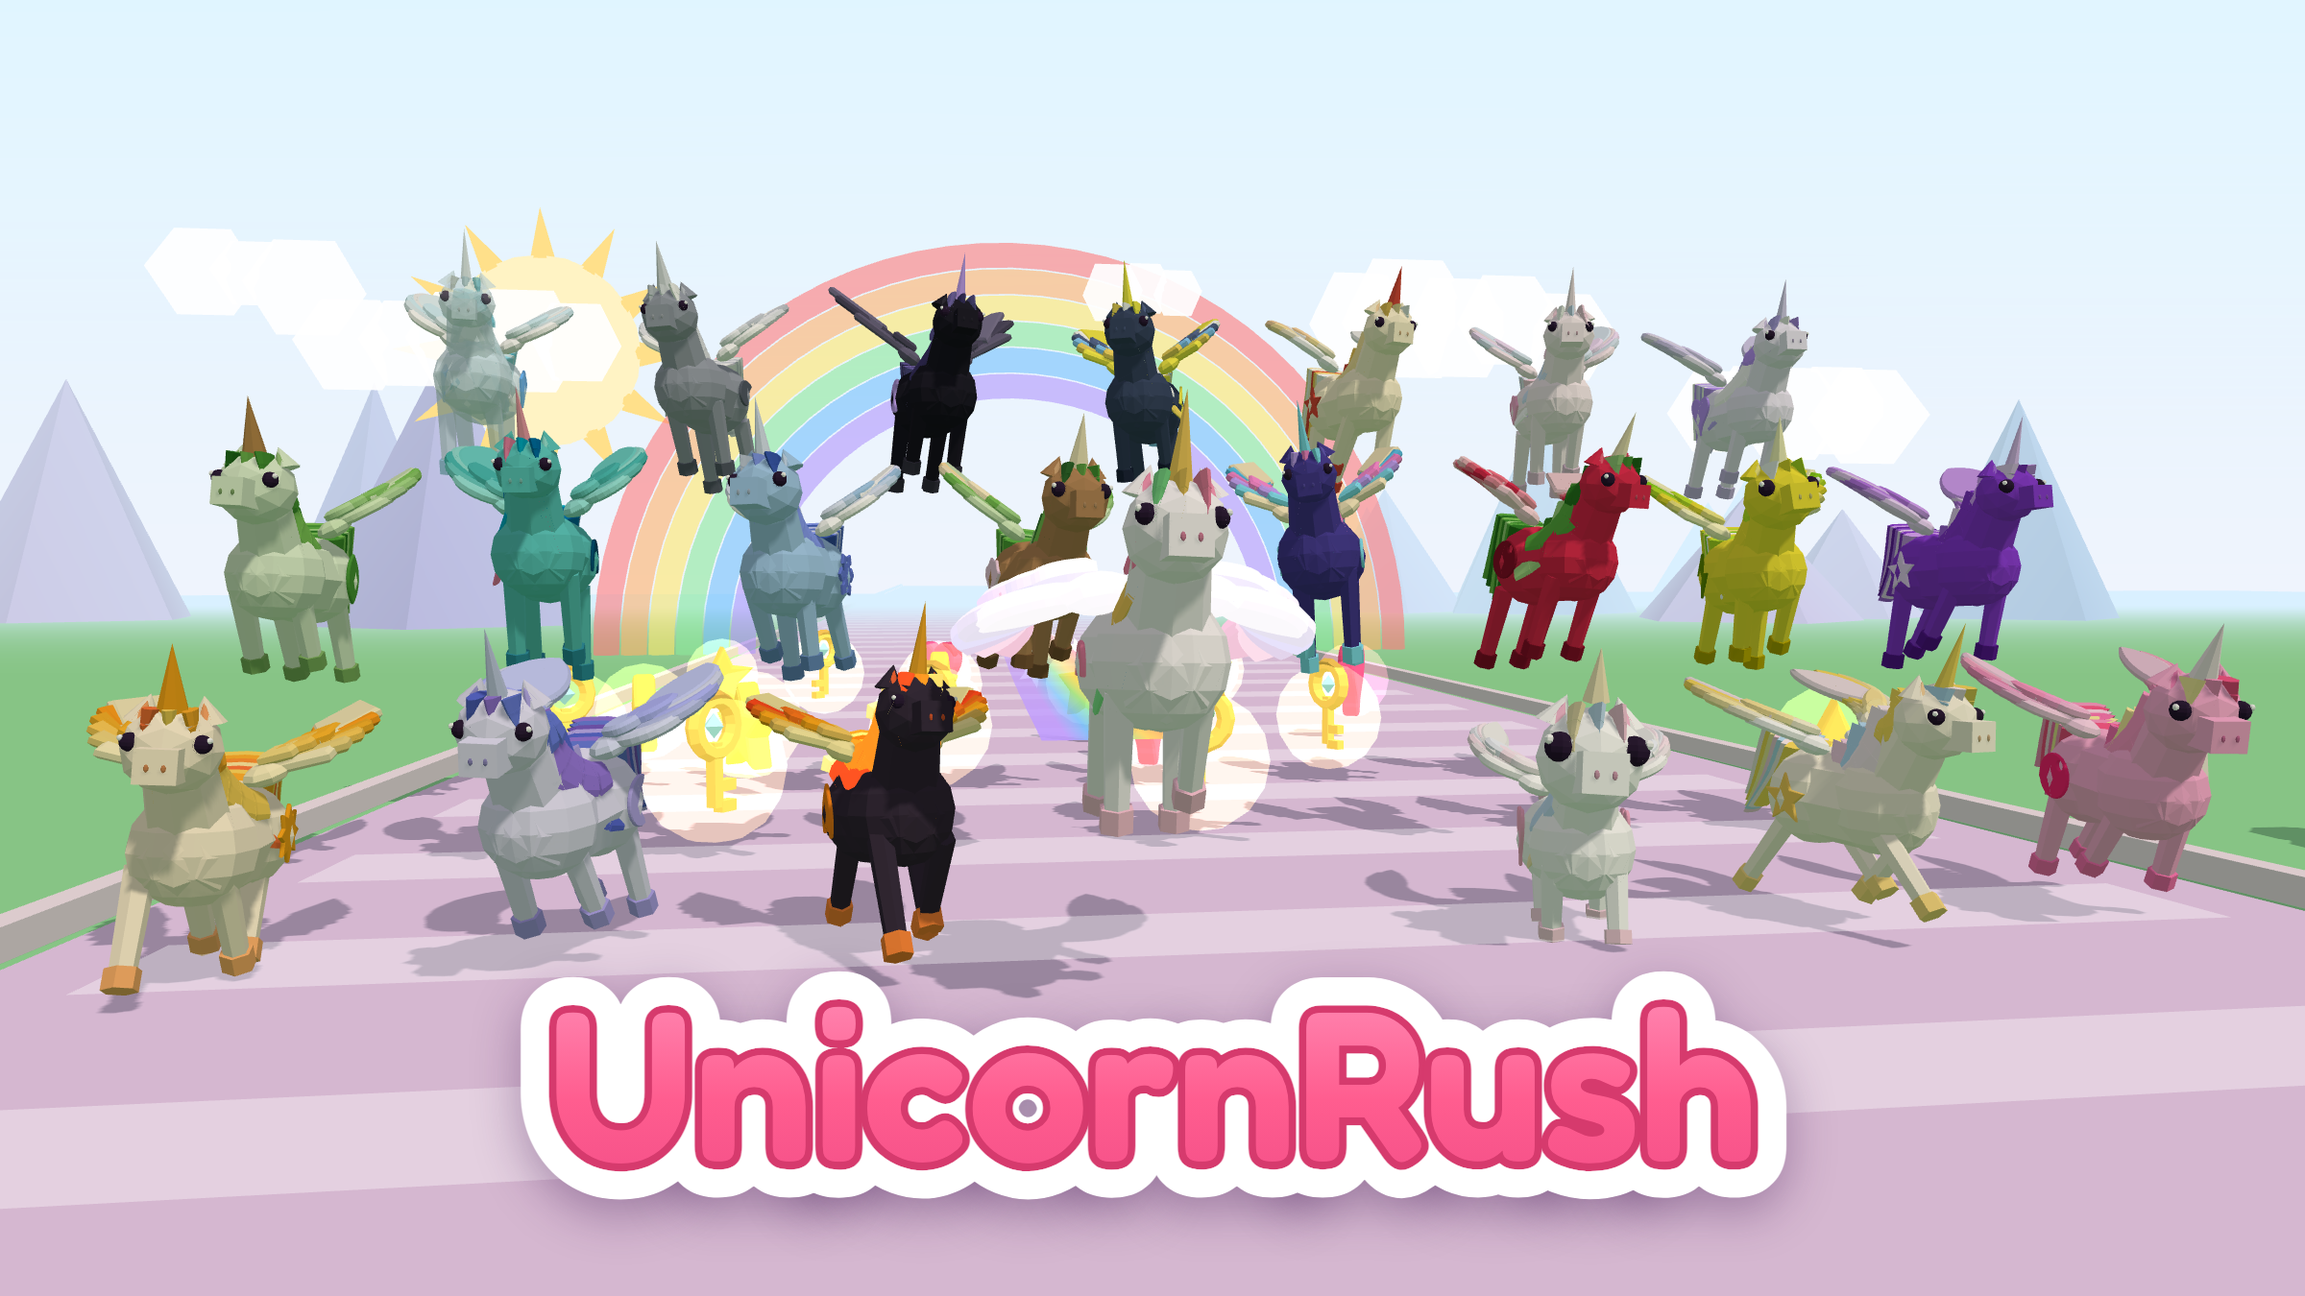
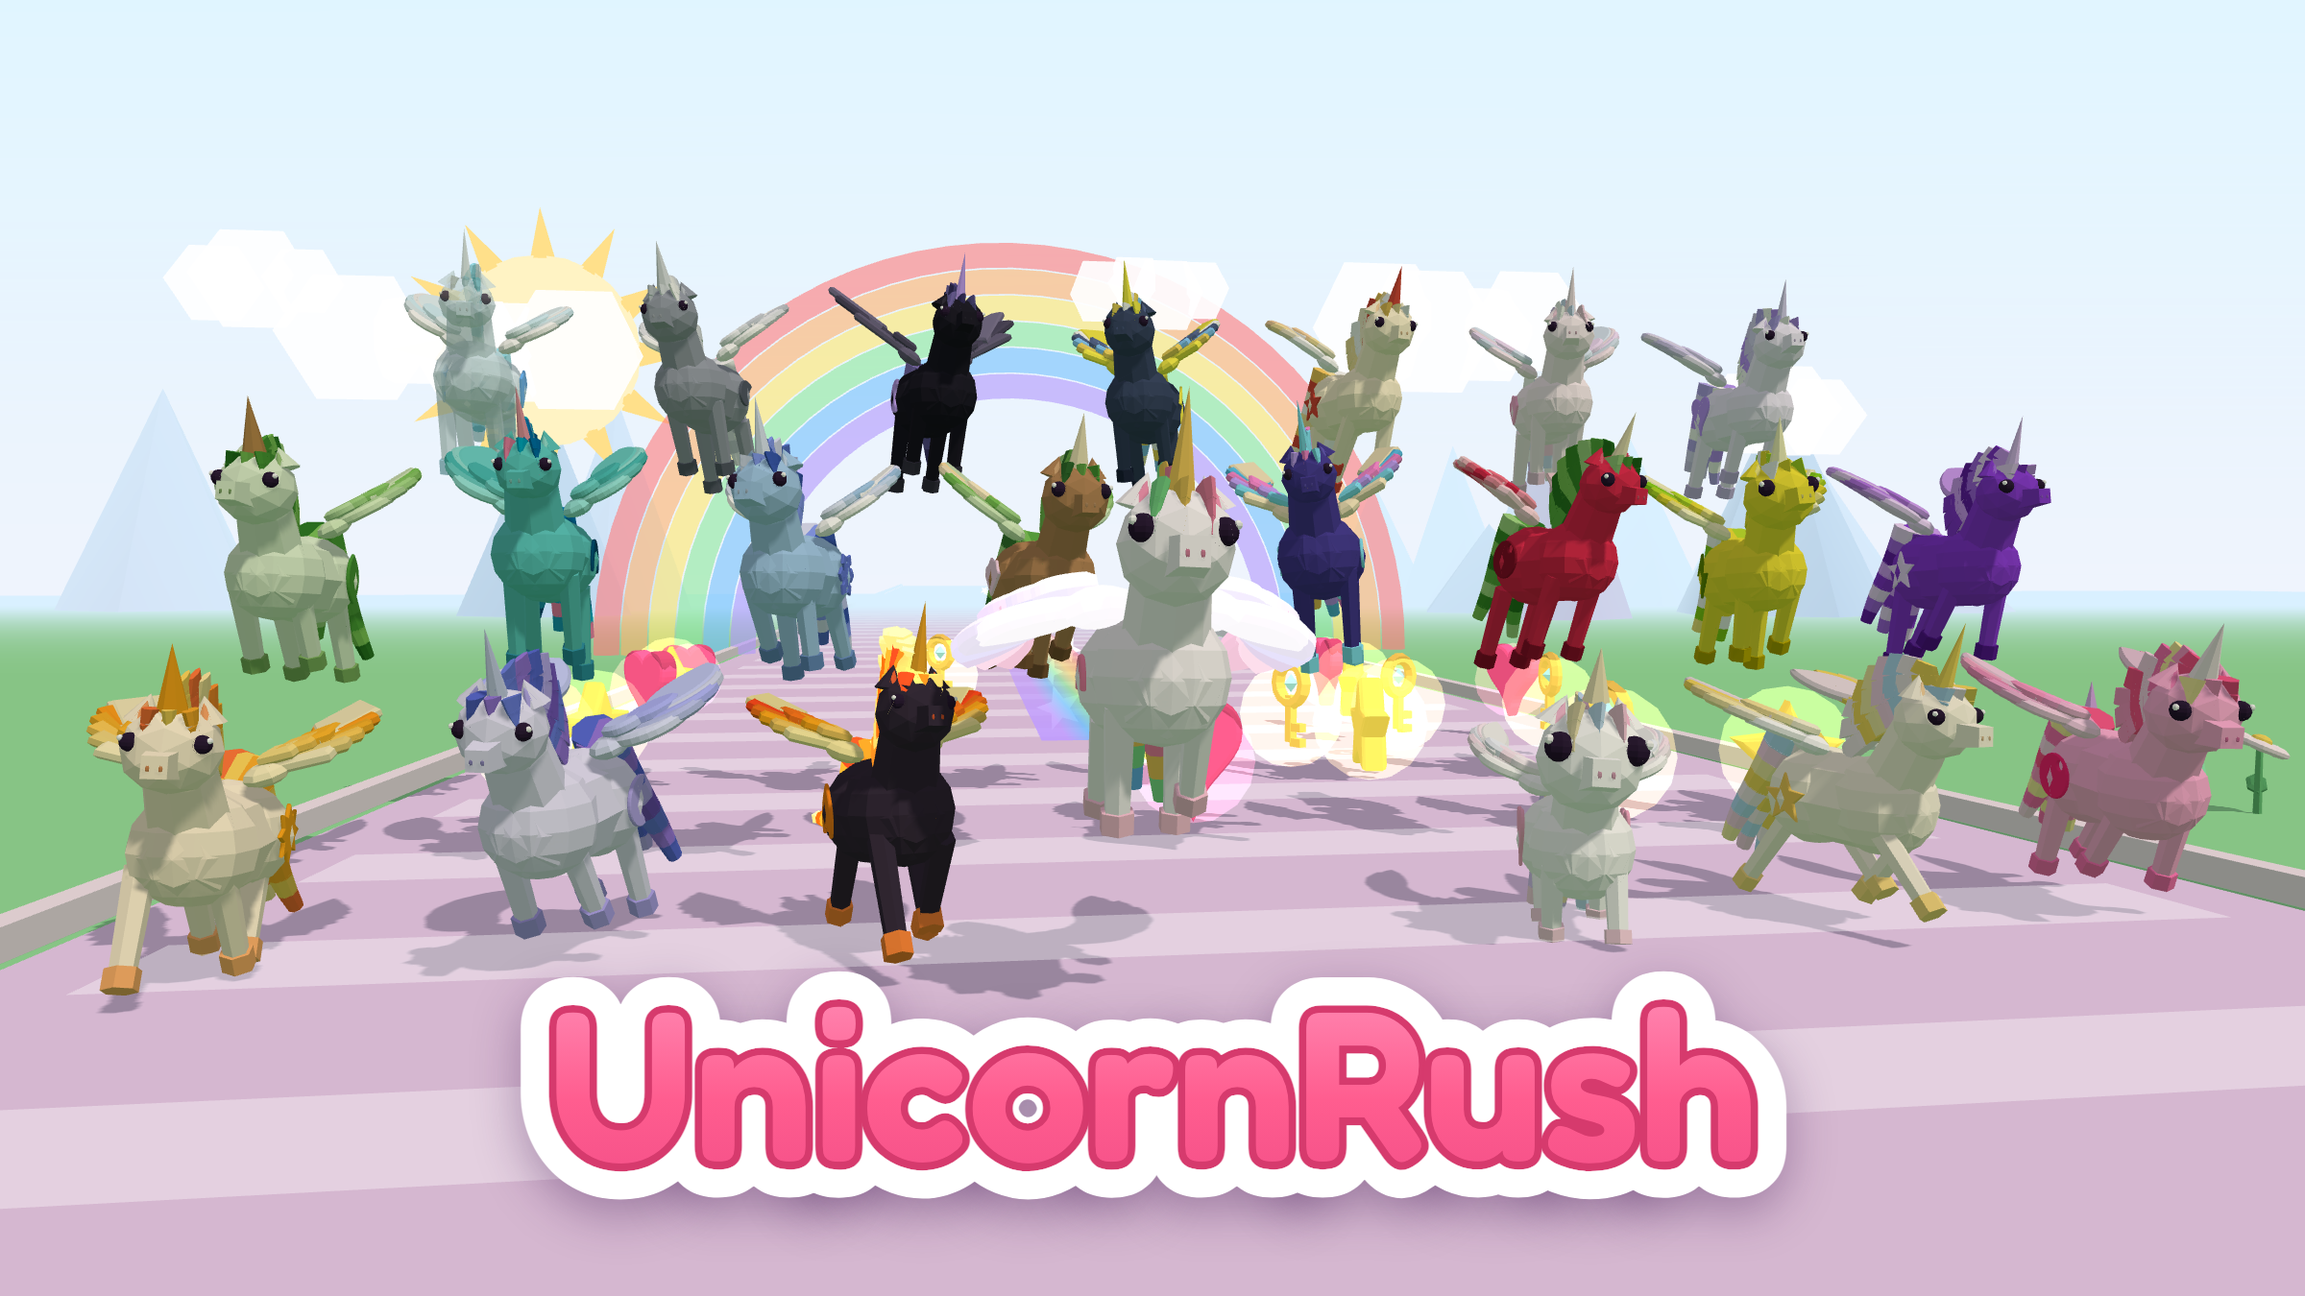
O unicórnio ganha a silhueta da escultura: crina em crista e rabo em massa
Duas referências agora: as ilustrações do livro para a cara, e uma escultura
low-poly para a silhueta.

**A crina virou crista no alto do pescoço**, no lugar das mechas caindo dos
dois lados. Além de ser o que a escultura faz, resolve um problema do jogo:
pela lateral, as mechas ficavam de perfil para a câmera — que vem de trás —
e liam como plaquinhas coloridas grudadas no pescoço. Em cima, formam uma
silhueta recortada que se reconhece de longe.

**O focinho afina para a frente**, em vez de ser uma caixa de lados
paralelos com cara de vagão. É um cilindro de quatro lados — uma caixa que
afina — com a geometria já girada na montagem, para o eixo apontar para a
frente sem depender da ordem das rotações.

**O rabo passou a ter cor por nó, e não por mecha**, e foi o que finalmente
funcionou depois de quatro arranjos. Com uma cor por mecha, todo arranjo
falha em algum ângulo: lado a lado vira várias tranças; em anel vira fileira
de lâminas; empilhado vira massa de uma cor só; e o último — finas e
espalhadas em Z — dava listras certas de lado e uma **placa da cor da
primeira vista de trás**, que é o ângulo do jogo. Foi assim que um escudo
dourado na garupa entrou em jogo por uma versão.

Com a cor no nó (o `makeLock` aceita uma lista), o arco-íris corre em faixas
ao longo do rabo e é o mesmo de qualquer lado. Fica registrado no README o
que aprendi: largura da mecha é o que se vê por trás, espalhamento é o que
[…]

diff --git a/src/models/unicorn.js b/src/models/unicorn.js
@@ -39,9 +39,14 @@ function makeLock(color, { length = 0.9, width = 0.14, segments = 5, flatten = 0
     const joint = new THREE.Group();
     if (i > 0) joint.position.y = -segLength;
 
+    // `color` pode ser uma cor só (crina, franja) ou uma lista — aí cada nó
+    // pega a sua, e a mecha sai listrada ao longo do comprimento. É o que o
+    // rabo usa: listra que se vê de qualquer ângulo, ao contrário da cor por
+    // mecha, que só aparece de um lado.
+    const cor = Array.isArray(color) ? color[i % color.length] : color;
     const material = fiery
-      ? mat(color, { emissive: color, emissiveIntensity: 0.9 })
-      : mat(color);
+      ? mat(cor, { emissive: cor, emissiveIntensity: 0.9 })
+      : mat(cor);
     const mesh = new THREE.Mesh(
       new THREE.CylinderGeometry(top, bottom, segLength * 1.06, 8),
       material
@@ -78,69 +83,67 @@ function makeLock(color, { length = 0.9, width = 0.14, segments = 5, flatten = 0
 function makeMane(colors, fiery = false) {
   const mane = new THREE.Group();
   const locks = [];
-  const rows = 4;
+  const rows = 7;
 
   for (let row = 0; row < rows; row++) {
-    const u = row / (rows - 1);
-    for (const side of [-1, 1]) {
-      // Mechas largas e achatadas: juntas elas formam um lençol de cabelo,
-      // em vez de fios soltos parecendo macarrão.
-      const lock = makeLock(colors[row % colors.length], {
-        length: 0.5 + Math.sin(u * Math.PI * 0.9) * 0.58,
-        width: 0.32,                     // larga como lençol…
-        segments: 5,
-        flatten: fiery ? 0.55 : 0.25,    // …e fina de perfil, senão vira tábua
-        // As de baixo dobram mais que as da nuca, que é como cabelo cai.
-        curva: fiery ? 0 : 0.1 + u * 0.16,
-        fiery,
-      });
-      // Da nuca (u=0) até a cernelha, acompanhando a curva do pescoço.
-      lock.position.set(side * 0.06, 1.99 - u * 0.5, -0.74 + u * 0.62);
-      lock.rotation.z = side * 0.34;    // a mecha cai rente à lateral do pescoço
-      lock.userData.phase = row * 0.5 + (side > 0 ? 0.28 : 0);
-      mane.add(lock);
-      locks.push(lock);
-    }
+    const u = row / (rows - 1);        // 0 = nuca, 1 = cernelha
+
+    // Crista no **alto** do pescoço, e não mechas caindo dos dois lados.
+    //
+    // É o que a escultura de referência faz, e resolve um problema antigo:
+    // caindo pelas laterais, as mechas ficavam de perfil para a câmera do
+    // jogo (que vem de trás) e liam como plaquinhas coloridas grudadas no
+    // pescoço. Em cima, elas formam uma silhueta recortada que se reconhece
+    // de longe — que é o que uma crina faz num bicho correndo.
+    const lock = makeLock(colors[row % colors.length], {
+      length: 0.32 + Math.sin(u * Math.PI * 0.85) * 0.3,
+      width: 0.3,
+      segments: 3,
+      flatten: fiery ? 0.62 : 0.2,      // placa fina, vista de lado
+      curva: fiery ? 0 : 0.12,
+      fiery,
+    });
+    lock.position.set(0, 2.0 - u * 0.5, -0.78 + u * 0.64);
+    // A mecha nasce apontando para baixo; isto a põe em pé e tombada para
+    // trás, acompanhando a inclinação do pescoço.
+    lock.rotation.x = -2.62 + u * 0.5;
+    lock.userData.phase = row * 0.5;
+    mane.add(lock);
+    locks.push(lock);
   }
 
   mane.userData.locks = locks;
   return mane;
 }
 
+
 // Rabo: um punhado de mechas saindo da garupa.
 function makeTail(colors, fiery = false) {
   const tail = new THREE.Group();
   const locks = [];
-  const count = 7;
+  const count = 3;
 
   for (let i = 0; i < count; i++) {
-    const meio = i - (count - 1) / 2;
-
-    // O rabo é fino **em Z** e espalhado **em Z**, ao contrário da crina.
+    // Três fios grossos quase no mesmo lugar — uma massa só, como na
+    // escultura — e a cor **por nó**, não por fio.
     //
-    // Foi onde errei três vezes. A mecha padrão é fina de lado (X) e larga de
-    // frente (Z); espalhando-as em X, elas se empilham uma atrás da outra e
-    // de perfil só se vê a face da primeira — o rabo virava uma tábua de uma
-    // cor só, com as outras aparecendo num filete na borda. Espalhadas em Z e
-    // finas em Z, cada mecha ocupa uma fatia da largura do rabo, e as cores
-    // correm lado a lado ao longo dele, que é como o arco-íris aparece na
-    // ilustração do livro.
-    //
-    // Achatar por opção (e não girar a mecha 90°) é o que mantém o balanço
-    // certo: `animateLock` gira os nós no X local, e uma mecha girada
-    // balançaria de lado em vez de para trás.
-    const lock = makeLock(colors[i % colors.length], {
-      length: 1.0 - Math.abs(meio) * 0.05,   // ponta arredondada
-      width: 0.3,
-      segments: 5,
-      flatten: fiery ? 0.7 : 0.22,
-      curva: fiery ? 0 : 0.12,
-      achatarEm: 'z',
+    // Era o que faltava. Com uma cor por mecha, as mechas viram placas: de
+    // lado aparecem as listras e de trás aparece uma placa da cor da
+    // primeira (era um escudo dourado na garupa, justo no ângulo em que o
+    // jogo mostra o bicho). Com a cor por nó, o arco-íris corre ao longo do
+    // rabo em faixas, e ele é o mesmo de qualquer lado.
+    const desloca = colors.slice(i).concat(colors.slice(0, i));
+    const lock = makeLock(desloca, {
+      length: 1.45 - i * 0.09,           // desce até perto do jarrete
+      width: 0.21,
+      segments: 8,
+      flatten: fiery ? 0.8 : 0.9,        // quase redonda: fio, não fita
+      curva: fiery ? 0 : 0.15,
       fiery,
     });
-    lock.position.set(0, 0, meio * 0.052);
-    lock.rotation.x = -Math.abs(meio) * 0.02;
-    lock.userData.phase = i * 0.5;
+    lock.position.set((i - 1) * 0.055, 0, (i - 1) * 0.045);
+    lock.rotation.z = (i - 1) * 0.14;
+    lock.userData.phase = i * 0.6;
     tail.add(lock);
     locks.push(lock);
   }
@@ -148,6 +151,7 @@ function makeTail(colors, fiery = false) {
   tail.userData.locks = locks;
   return tail;
 }
+
 
 
 
@@ -508,8 +512,15 @@ export function createUnicorn(character = CHARACTERS.uni) {
   skull.castShadow = true;
   head.add(skull);
 
-  const muzzle = new THREE.Mesh(new THREE.BoxGeometry(0.27, 0.25, 0.34), bodyMat);
-  muzzle.position.set(0, -0.09, -0.3);
+  // Focinho em cunha: afina para a frente, como na escultura. Era uma caixa
+  // de lados paralelos, que dava cara de vagão. Um cilindro de quatro lados
+  // é uma caixa que afina — e a geometria já nasce virada, para o eixo
+  // apontar para a frente sem depender da ordem das rotações.
+  const geoFocinho = new THREE.CylinderGeometry(0.115, 0.16, 0.36, 4);
+  geoFocinho.rotateY(Math.PI / 4);      // quinas alinhadas com o corpo
+  geoFocinho.rotateX(-Math.PI / 2);     // o topo (mais fino) vira a ponta
+  const muzzle = new THREE.Mesh(geoFocinho, bodyMat);
+  muzzle.position.set(0, -0.09, -0.31);
   muzzle.castShadow = true;
   head.add(muzzle);
 
@@ -523,7 +534,7 @@ export function createUnicorn(character = CHARACTERS.uni) {
   for (const side of [-1, 1]) {
     const narina = new THREE.Mesh(new THREE.SphereGeometry(0.019, 6, 5), mat(corNarina));
     narina.scale.set(1, 1.5, 0.7);
-    narina.position.set(side * 0.052, -0.1, -0.468);
+    narina.position.set(side * 0.04, -0.1, -0.482);
     head.add(narina);
   }
 

diff --git a/src/models/characters.js b/src/models/characters.js
@@ -20,6 +20,9 @@ export const CHARACTERS = {
     id: 'uni',
     name: 'Uni',
     emoji: '🌈',
+    // Um tico mais infantil que os adultos: cabeça e olho maiores, perna
+    // mais curta. Não chega perto da Lulu, que é o bebê de verdade.
+    proportions: { head: 1.12, legs: 0.9, eye: 1.15 },
     title: 'a unicórnia arco-íris',
     story: 'Uni nasceu na ponta de um arco-íris, num dia de sol com chuva. '
       + 'Onde ela pisa fica colorido, e ela adora dividir corações com quem encontra pelo caminho.',

diff --git a/sw.js b/sw.js
@@ -5,7 +5,7 @@
 //
 // O nome do cache carrega a versão do jogo: ao subi-la (com `npm run bump`),
 // o cache velho é apagado sozinho no aparelho de quem já jogou.
-const VERSION = 'unicornrush-v0.24.1';
+const VERSION = 'unicornrush-v0.25.0';
 
 const SHELL = [
   './',

diff --git a/src/game/version.js b/src/game/version.js
@@ -7,4 +7,4 @@
 // Para subir a versão use `npm run bump` — ele mexe nos três lugares de uma
 // vez (aqui, no `package.json` e no `sw.js`), que é o que impede de um deles
 // ficar para trás.
-export const VERSION = '0.24.1';
+export const VERSION = '0.25.0';

diff --git a/README.md b/README.md
@@ -387,60 +387,70 @@ branco filtrado com corpo médio, que se ouve em qualquer aparelho, e o
 **rugido** grave que vem depois e vai fechando o filtro enquanto some, como
 um som que se afasta (`ruido()` em `src/game/audio.js`).
 
-## A cara e o rabo do unicórnio
+## O desenho do unicórnio
 
-Aproximados das **ilustrações do livro** (ver `assets/story/`), que são o
-desenho oficial da Uni.
+O modelo segue duas referências: as **ilustrações do livro**
+(`assets/story/`) para a cara, e uma **escultura low-poly** para a silhueta —
+facetada, chapada, com a crina em crista e o rabo em massa única.
 
-**O focinho perdeu a bolinha da ponta**, que lia como nariz de palhaço. No
-lugar dela ficaram só duas narinas, na cor do personagem escurecida — no tom
-original elas sumiriam em quem é claro, e um preto fixo destoaria de quem é
-escuro. (Tentei antes trocar a caixa do focinho por uma esfera com uma
-mancha clara; ficou pior, virou focinho de porquinho, e voltou atrás.)
+**A crina é uma crista no alto do pescoço**, e não mechas caindo dos dois
+lados. Além de ser o que a escultura faz, resolve um problema do jogo: pela
+lateral, as mechas ficavam de perfil para a câmera (que vem de trás) e liam
+como plaquinhas coloridas grudadas no pescoço. Em cima, formam uma silhueta
+recortada que se reconhece de longe.
 
-**O olho ganhou um brilho**: uma bolinha branca em cima, do lado de fora,
-onde a luz bateria. É o que separa "olho" de "botão de casaco", e custa uma
-peça — não as três de um olho montado em camadas, que também tentei e
-descartei.
+**O focinho afina para a frente.** Era uma caixa de lados paralelos, com cara
+de vagão; agora é um cilindro de quatro lados — uma caixa que afina —, com a
+geometria já girada na montagem para o eixo apontar para a frente sem
+depender da ordem das rotações. As narinas ficam na ponta, na cor do
+personagem escurecida.
 
-**As orelhas eram cones altos e finos** que, ao lado do chifre, viravam um
-segundo chifre — três pontas na mesma cabeça. Agora são baixas, largas e com
-o rosa por dentro.
+**O olho** é a bolinha escura com um brilho branco em cima, do lado de fora,
+onde a luz bateria. É o que separa "olho" de "botão de casaco", por uma peça.
 
-**As mechas ganharam `curva`**: cada nó dobra um pouco em relação ao
-anterior, e o que era espeto virou onda. A curva é **somada** dentro do
-`animateLock`, não deixada na montagem — aquele laço roda a cada quadro e
-apagaria qualquer dobra.
+**As orelhas** são baixas e largas, com o rosa por dentro. Cones altos, ao
+lado do chifre, viravam um segundo chifre — três pontas na mesma cabeça.
 
-### O rabo, e o eixo em que a mecha é fina
+### O rabo: cor por nó, não por mecha
 
-O rabo é o oposto da crina, e foi onde errei três vezes seguidas.
+Este custou quatro tentativas, e vale registrar por quê.
 
-A mecha padrão é **fina em X** (de lado) e larga em Z (de frente), que é o
-que serve para a crina cair rente ao pescoço. Espalhando as mechas do rabo
-em X — lado a lado, como estavam —, elas se empilham uma atrás da outra: de
-perfil só se vê a face da primeira, e o rabo vira uma tábua de uma cor só,
-com as outras seis aparecendo num filete na borda. Grossas, dava para contar
-uma a uma e o bicho parecia ter sete rabinhos; foi o que se viu em jogo.
+A mecha (`makeLock`) é uma corrente de nós, fina num eixo. Com **uma cor por
+mecha**, qualquer arranjo falha em algum ângulo:
 
-Também não funciona dispô-las **em anel**, com a face acompanhando a volta:
-de qualquer ângulo se vê metade de face e metade de fio, e o rabo vira uma
-fileira de lâminas.
+| arranjo | de lado | de trás (o ângulo do jogo) |
+| --- | --- | --- |
+| lado a lado, grossas | várias tranças | várias tranças |
+| em anel, face na volta | fileira de lâminas | fileira de lâminas |
+| empilhadas em profundidade | massa de uma cor só | idem |
+| finas, espalhadas em Z | listras certas ✓ | **placa da cor da primeira** |
 
-O que funciona é achatar **em Z** e espalhar **em Z**: cada mecha ocupa uma
-fatia da largura do rabo, e as cores correm lado a lado *ao longo* dele —
-que é exatamente como o arco-íris aparece na ilustração.
+A última quase funcionou — e foi a que entrou em jogo por uma versão, com um
+escudo dourado achatado na garupa, justo no ângulo em que o jogo mostra o
+bicho.
 
-Daí a opção `achatarEm` do `makeLock`. Achatar por opção, e não girar a
-mecha 90°, é o que mantém o balanço certo: o `animateLock` gira os nós no X
-local, e uma mecha girada balançaria de lado em vez de para trás.
+O que resolve é mudar **onde a cor mora**: em vez de uma cor por mecha, uma
+**cor por nó** (o `makeLock` aceita uma lista). Aí o arco-íris corre em
+faixas ao longo do rabo e é o mesmo de qualquer lado. São três fios grossos
+quase no mesmo lugar, com as cores defasadas entre eles, formando uma massa
+só — como na escultura.
+
+A lição que ficou: largura da mecha é o que se vê **por trás**, espalhamento
+é o que se vê **de lado**. São eixos diferentes, e dá para consertar um
+estragando o outro sem perceber, se só se olhar de um ângulo.
+
+### As proporções da Uni
+
+Ela ganhou `proportions: { head: 1.12, legs: 0.9, eye: 1.15 }` — cabeça e
+olho maiores, perna mais curta que a dos adultos, sem chegar perto da Lulu
+(1,35 / 0,72 / 1,35), que é o bebê de verdade. É por personagem, então só
+mexe nela.
 
 ### O que fica gravado
 
-O modelo é um só, então tudo isto vale para os 22. E duas coisas saem dele e
-ficam guardadas como arquivo — a animação do carregamento
-(`npm run gravar-uni`) e as imagens de anúncio (`npm run anuncio`): mexeu no
-unicórnio, refaz as duas, senão continuam mostrando a cara antiga.
+O modelo é um só, então o resto vale para os 22. E duas coisas saem dele e
+viram arquivo — a animação do carregamento (`npm run gravar-uni`) e as
+imagens de anúncio (`npm run anuncio`): mexeu no unicórnio, refaz as duas.
 
 ## Modos de jogo
 
